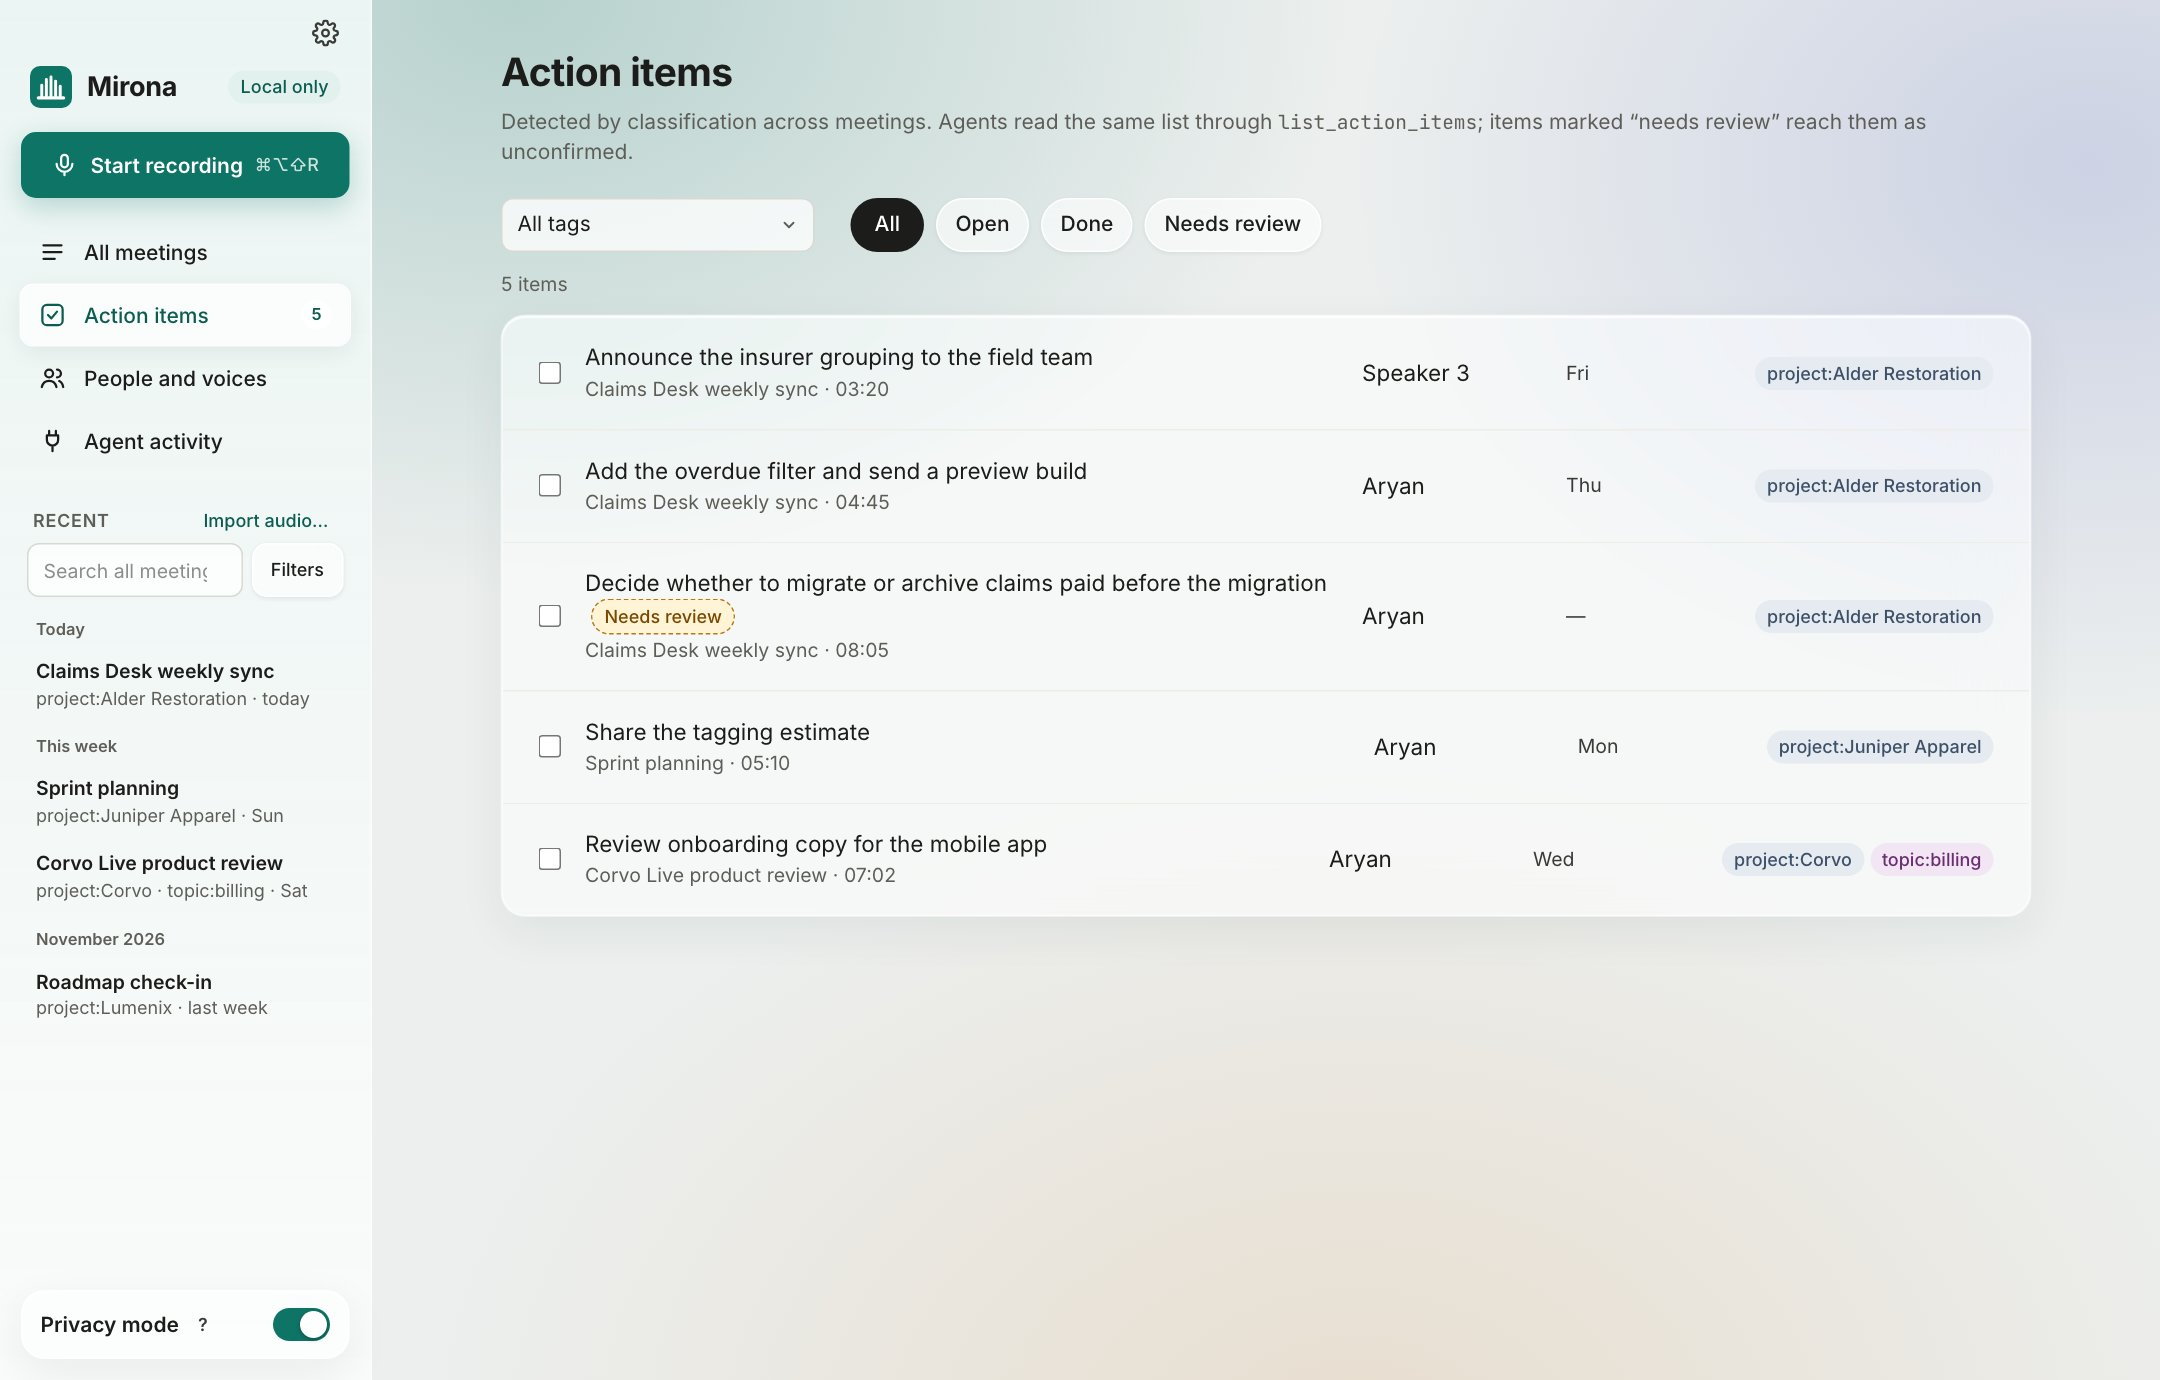
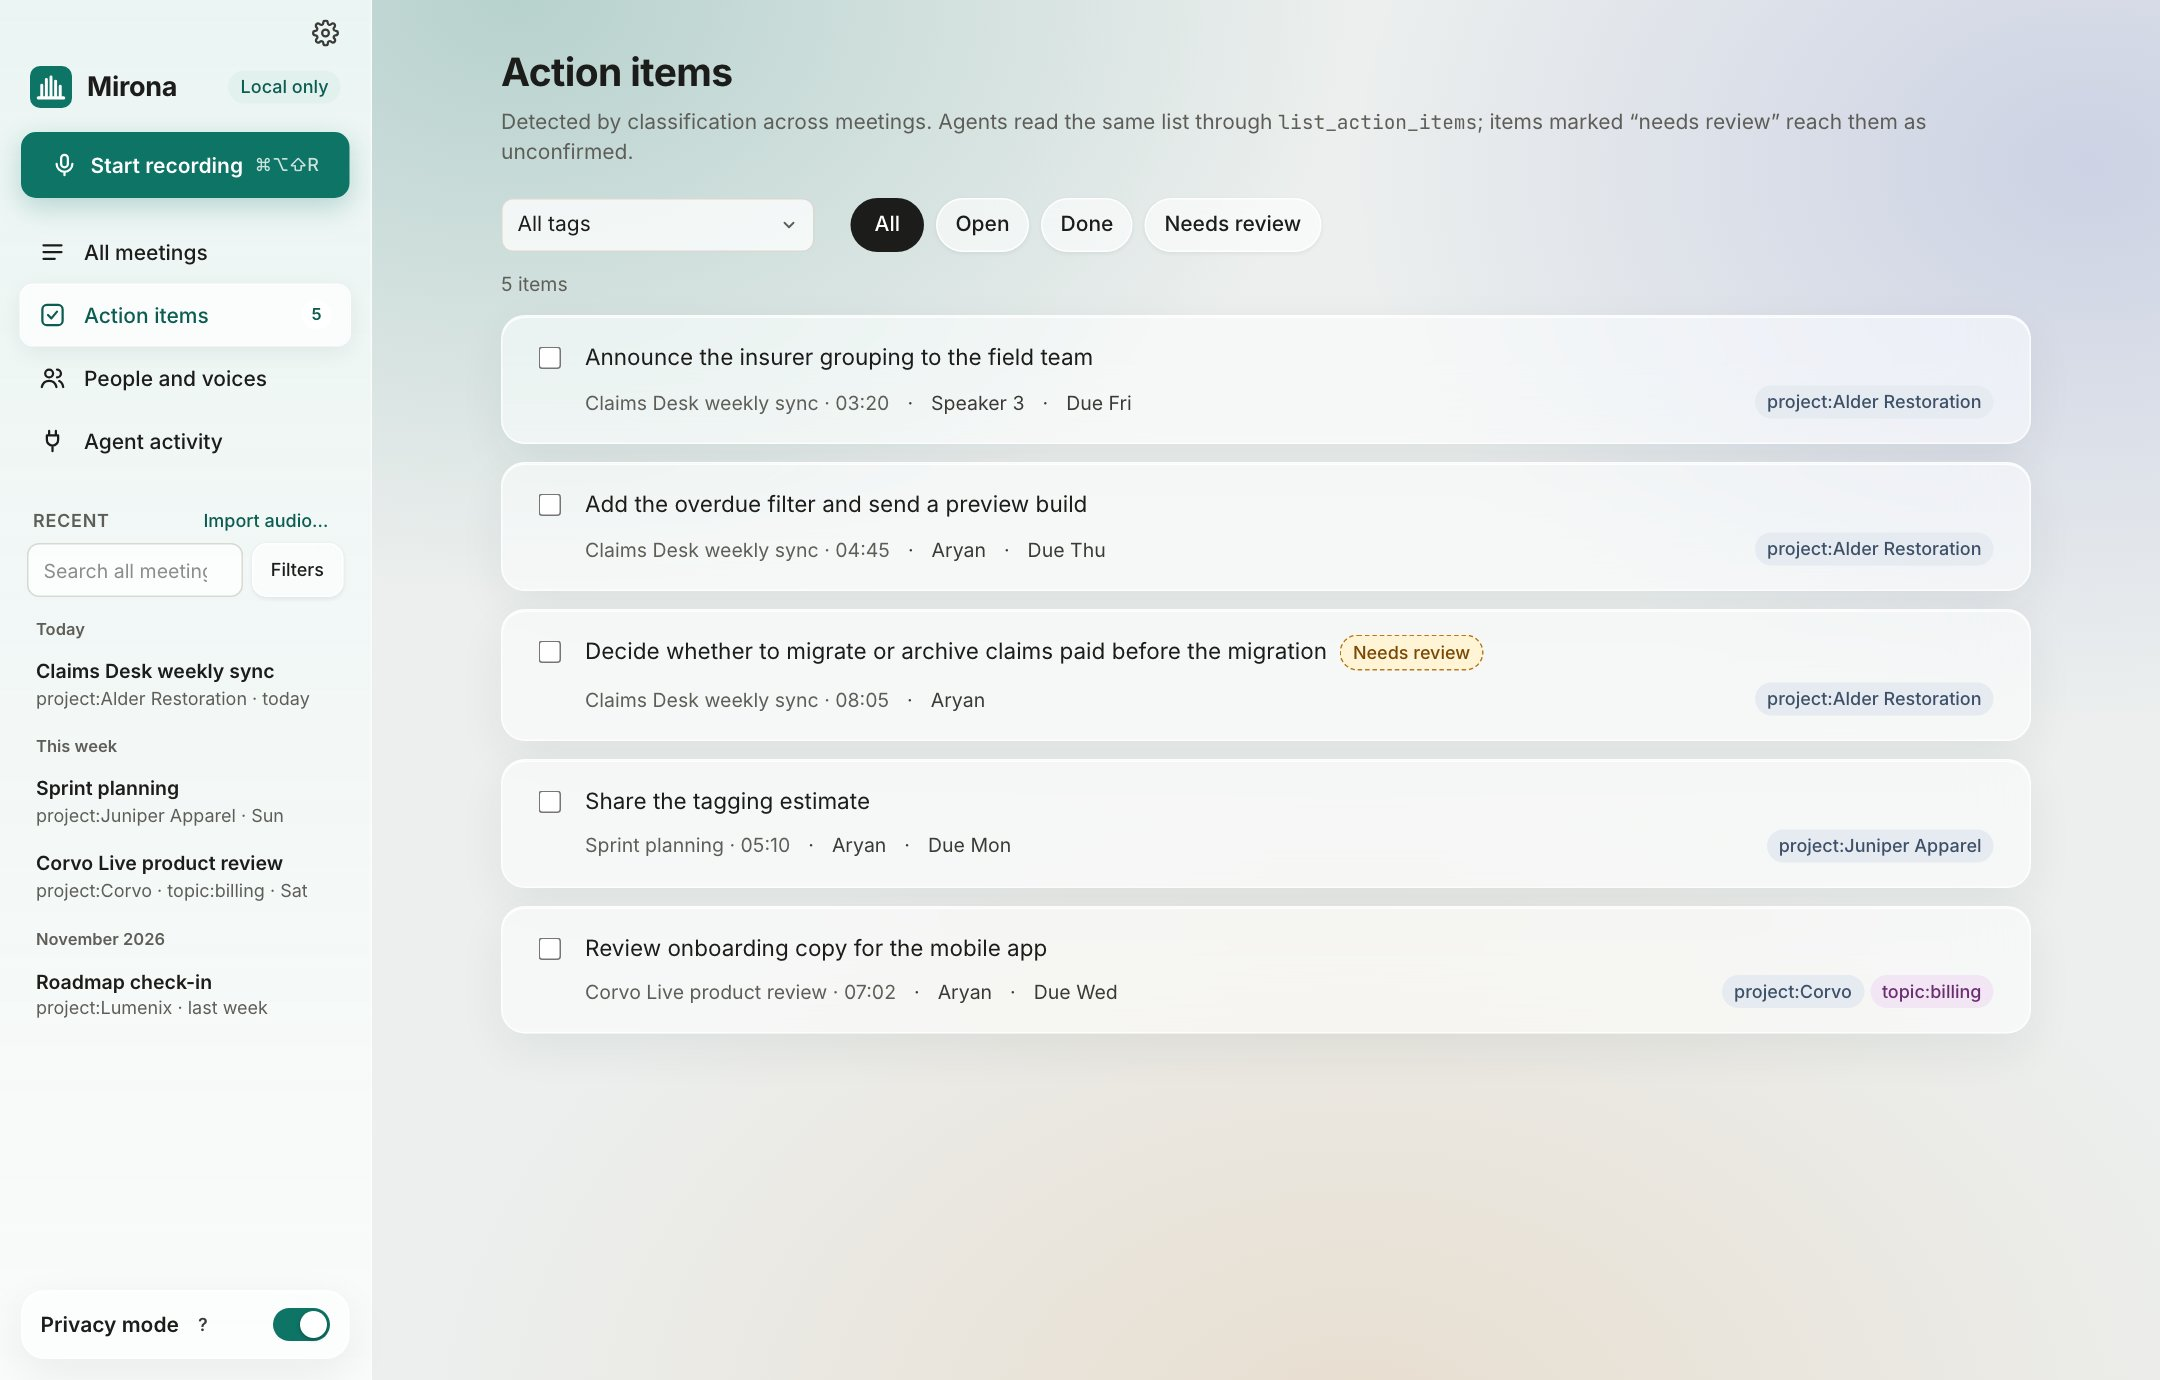
Action items are cards: the text on top and a footer with the meeting, owner, due date and tags, instead of per-row grids whose columns didn't line up; guide screenshot regenerated

diff --git a/app/src/views/Pages.tsx b/app/src/views/Pages.tsx
@@ -211,42 +211,48 @@ export function ActionItemsView() {
       <p className="mb-3 text-[13px] text-muted" aria-live="polite">
         {rows.length} item{rows.length === 1 ? "" : "s"}
       </p>
-      <div className="mi-card overflow-hidden">
+      <div className="flex flex-col gap-3">
         {rows.map((a, i) => (
-          <div key={a.id} style={{ animationDelay: `${Math.min(i, 8) * 30}ms` }} className={`mi-enter grid grid-cols-[auto_1fr_120px_110px_auto] items-center gap-4 px-6 py-4 ${i ? "border-t border-line-soft" : ""}`}>
-            <input type="checkbox" checked={a.done} onChange={() => s.toggleAction(a.id)} aria-label={`Done: ${a.text}`} />
-            <div className="min-w-0">
+          <div key={a.id} style={{ animationDelay: `${Math.min(i, 8) * 30}ms` }} className="mi-card mi-enter flex items-start gap-4 px-6 py-4">
+            <input type="checkbox" className="mt-1" checked={a.done} onChange={() => s.toggleAction(a.id)} aria-label={`Done: ${a.text}`} />
+            <div className="min-w-0 flex-1">
               <p className={`text-[15px] ${a.done ? "text-muted line-through" : ""}`}>
                 {a.text} {a.needsReview && <span className="mi-chip mi-chip--review ml-1">Needs review</span>}
               </p>
-              <button
-                type="button"
-                className="text-left text-[13px] text-muted hover:text-accent hover:underline"
-                aria-label={`Open ${a.meetingTitle}${a.atMs != null ? ` at ${fmt(a.atMs)}` : ""}`}
-                onClick={() => (a.atMs != null ? s.openAt(a.meetingId, a.atMs) : s.openMeeting(a.meetingId))}
-              >
-                {a.meetingTitle}
-                {a.atMs != null && ` · ${fmt(a.atMs)}`}
-              </button>
+              <div className="mt-2 flex flex-wrap items-center gap-x-3 gap-y-1.5 text-[13px] text-ink-3">
+                <button
+                  type="button"
+                  className="text-left text-muted hover:text-accent hover:underline"
+                  aria-label={`Open ${a.meetingTitle}${a.atMs != null ? ` at ${fmt(a.atMs)}` : ""}`}
+                  onClick={() => (a.atMs != null ? s.openAt(a.meetingId, a.atMs) : s.openMeeting(a.meetingId))}
+                >
+                  {a.meetingTitle}
+                  {a.atMs != null && ` · ${fmt(a.atMs)}`}
+                </button>
+                <span aria-hidden="true">·</span>
+                <span title={a.ownerConfirmed ? "Owner set by you" : undefined}>{a.owner || <span className="text-muted">No owner</span>}</span>
+                {a.due && (
+                  <>
+                    <span aria-hidden="true">·</span>
+                    <span>Due {a.due}</span>
+                  </>
+                )}
+                <span className="ml-auto flex flex-wrap gap-1">
+                  {a.tags.length ? (
+                    a.tags.map((t) => (
+                      <span key={t} className={`mi-chip ${tagClass(t)}`}>
+                        {t}
+                      </span>
+                    ))
+                  ) : (
+                    <span className="mi-chip mi-chip--neutral">No tag</span>
+                  )}
+                </span>
+              </div>
             </div>
-            <span className="truncate text-[15px]" title={a.ownerConfirmed ? "Owner set by you" : undefined}>
-              {a.owner || <span className="text-muted">No owner</span>}
-            </span>
-            <span className="truncate text-[13px] text-ink-3">{a.due ?? "—"}</span>
-            <span className="flex flex-wrap justify-end gap-1 justify-self-end">
-              {a.tags.length ? (
-                a.tags.map((t) => (
-                  <span key={t} className={`mi-chip ${tagClass(t)}`}>
-                    {t}
-                  </span>
-                ))
-              ) : (
-                <span className="mi-chip mi-chip--neutral">No tag</span>
-              )}
-            </span>
           </div>
         ))}
-        {!rows.length && <p className="px-6 py-10 text-center text-[14px] text-muted">{s.actionItems.length ? "No action items match these filters." : "No action items yet. They come from each meeting's summary."}</p>}
+        {!rows.length && <p className="mi-card px-6 py-10 text-center text-[14px] text-muted">{s.actionItems.length ? "No action items match these filters." : "No action items yet. They come from each meeting's summary."}</p>}
       </div>
     </div>
   );
